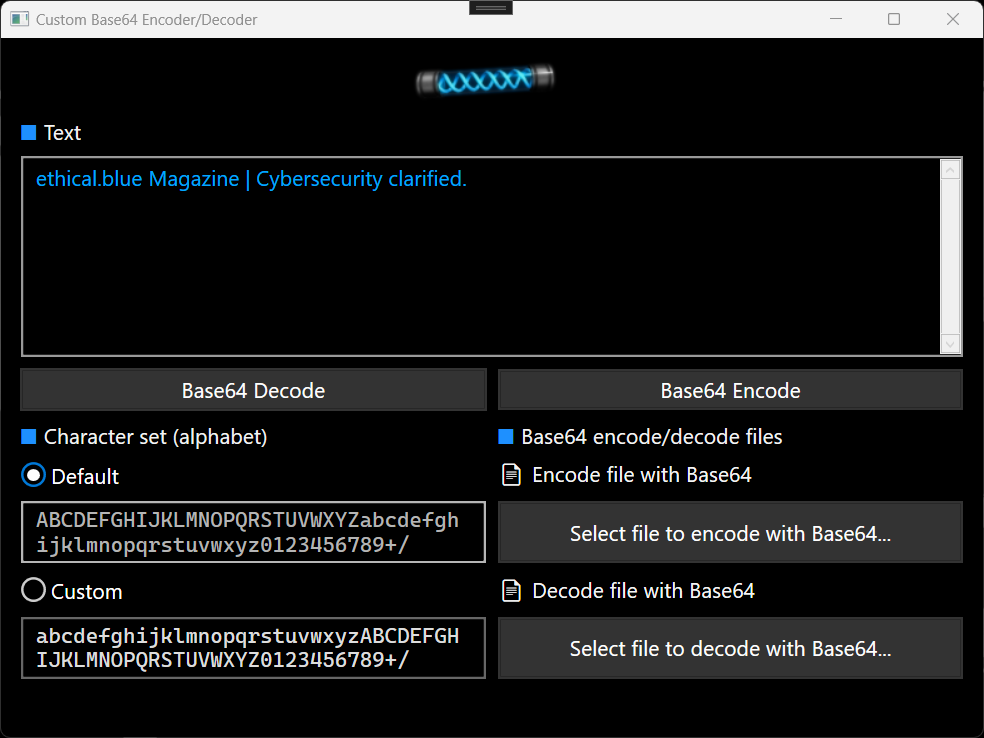
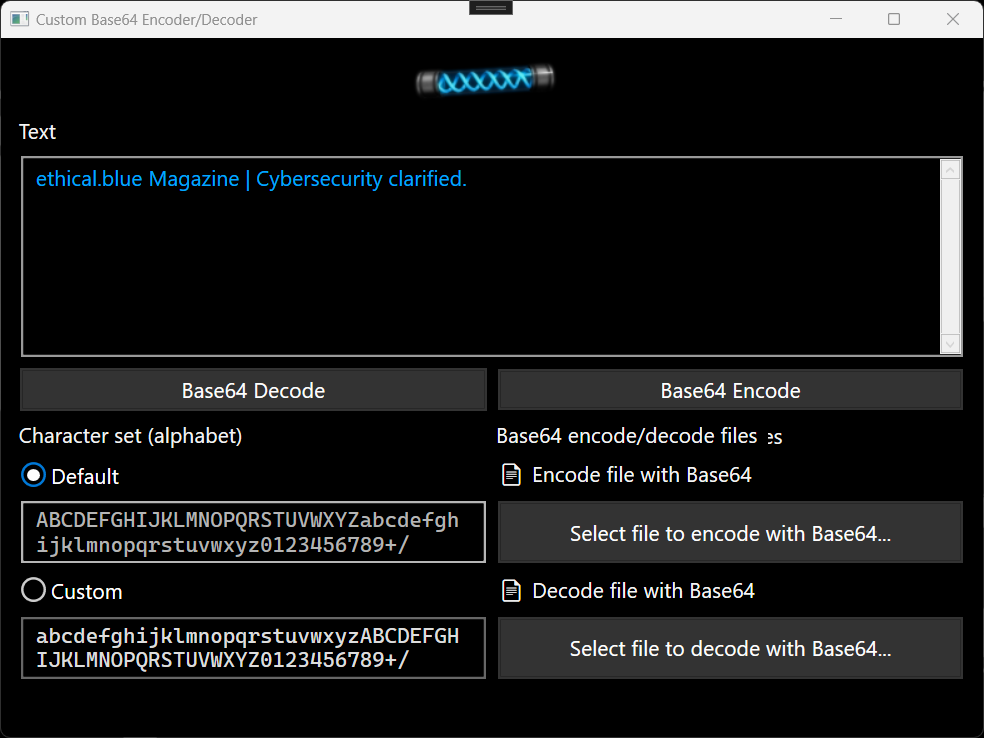
GUI Changed

Changed region(s): [[0.4878, 0.561, 0.7927, 0.6233], [0.0, 0.561, 0.2744, 0.6233], [0.0, 0.1558, 0.0915, 0.187]]

diff --git a/CustomBase64GUI/MainWindow.xaml b/CustomBase64GUI/MainWindow.xaml
@@ -32,14 +32,14 @@
         <Image Source="/Images/tube.png" Grid.Row="0" Grid.Column="0" Grid.ColumnSpan="2" Stretch="None" VerticalAlignment="Top" />
 
         <TextBlock Grid.Row="1" Grid.Column="0" Margin="4" Grid.ColumnSpan="2" TextWrapping="Wrap">
-                <Span Foreground="DodgerBlue">&#x25A0;</Span> Text
+                Text
         </TextBlock>
 
         <TextBox x:Name="TextBoxEncodedDecodedText" Grid.Row="2" Grid.Column="0" Grid.ColumnSpan="2" VerticalScrollBarVisibility="Visible" TextWrapping="Wrap" AcceptsReturn="True" VerticalContentAlignment="Top" MinLines="5"></TextBox>
 
         <Button x:Name="ButtonDecodeText" Grid.Row="3" Grid.Column="0" Margin="4" Click="ButtonEncodeDecodeText_Click">Base64 Decode</Button>
 
-        <TextBlock Grid.Row="4" Grid.Column="0" Margin="4"><Span Foreground="DodgerBlue">&#x25A0;</Span> Character set (alphabet)</TextBlock>
+        <TextBlock Grid.Row="4" Grid.Column="0" Margin="4">Character set (alphabet)</TextBlock>
         
         <RadioButton x:Name="RadioButtonDefaultAlphabet" Grid.Row="5" Grid.Column="0" GroupName="alphabetRadioBtn" IsChecked="True">
             Default
@@ -59,7 +59,7 @@
 
         <Button x:Name="ButtonEncodeText" Grid.Row="3" Grid.Column="1" Click="ButtonEncodeDecodeText_Click">Base64 Encode</Button>
 
-        <TextBlock Grid.Row="4" Grid.Column="1" Margin="4"><Span Foreground="DodgerBlue">&#x25A0;</Span> Base64 encode/decode files</TextBlock>
+        <TextBlock Grid.Row="4" Grid.Column="1" Margin="4">Base64 encode/decode files</TextBlock>
 
         <TextBlock Grid.Row="5" Grid.Column="1" Margin="4">&#x1F4C4; Encode file with Base64</TextBlock>
 
